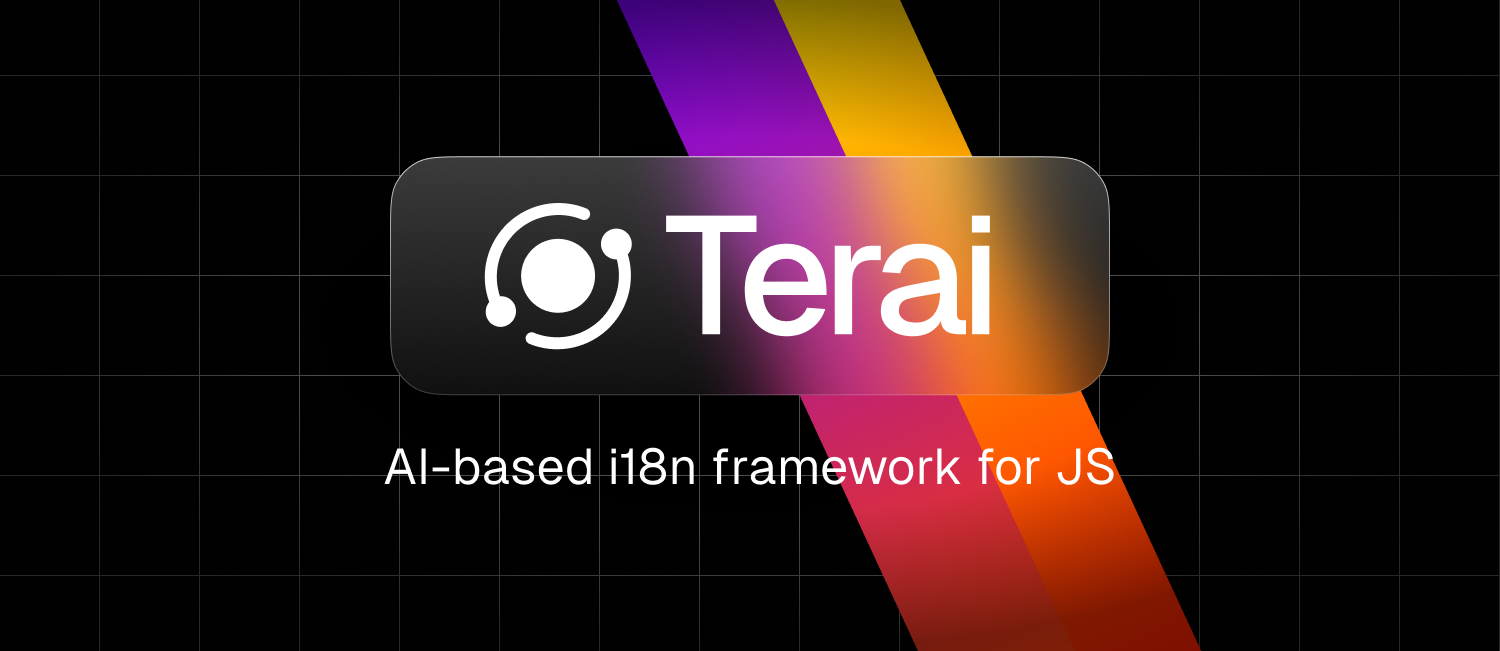
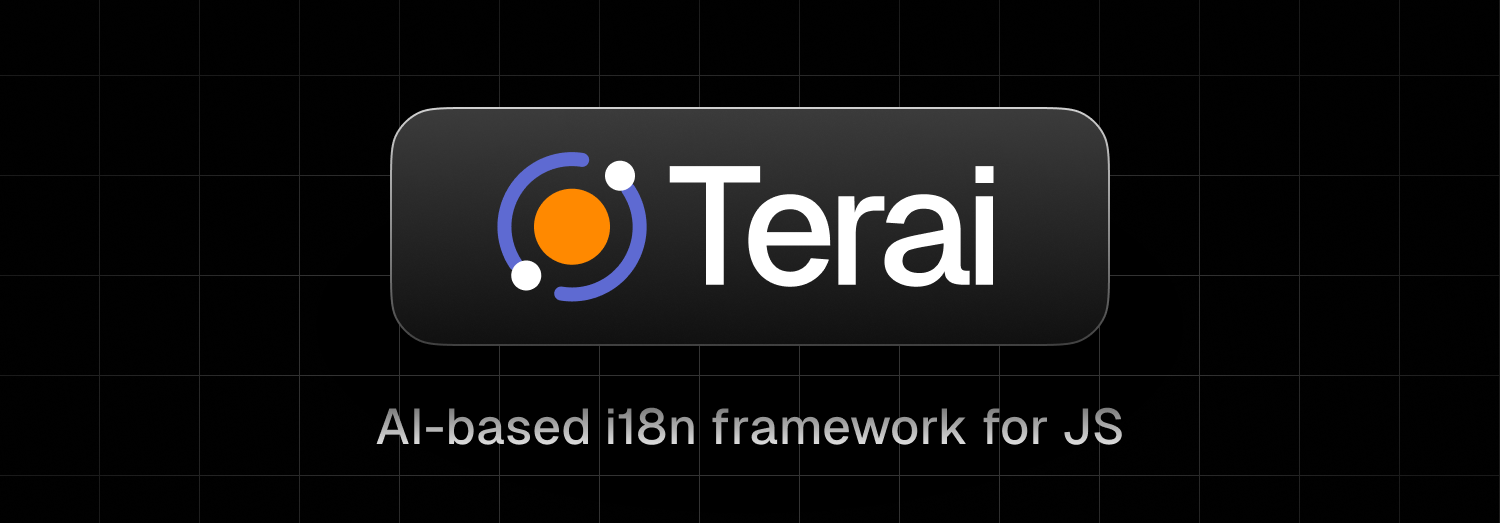
WIP Docs

Changed region(s): [[0.184, 0.0, 0.828, 1.0], [0.2453, 0.5507, 0.276, 0.5813]]

diff --git a/website/theme.config.tsx b/website/theme.config.tsx
@@ -4,7 +4,40 @@ import { ThemeConfig } from 'nextra/types'
 const config: ThemeConfig = {
   logo: (
     <div className='nx-flex nx-items-center'>
-      <Image alt='terai' src={'/terai/icon.png'} width={32} height={32} />
+      <svg
+        width='24'
+        height='24'
+        viewBox='0 0 162 162'
+        fill='none'
+        xmlns='http://www.w3.org/2000/svg'
+      >
+        <path
+          d='M70.2002 147.825C83.1788 149.958 96.4977 148.252 108.52 142.918C120.543 137.583 130.745 128.853 137.873 117.799C145.001 106.746 148.744 93.8502 148.642 80.6979C148.541 67.5456 144.599 54.7095 137.302 43.767'
+          stroke='#5E6AD2'
+          stroke-width='14'
+          stroke-linecap='round'
+          stroke-linejoin='round'
+        />
+        <path
+          d='M91.1253 14.175C78.1997 12.2012 64.9791 14.0239 53.0698 19.4218C41.1606 24.8196 31.0755 33.5602 24.04 44.5814C17.0044 55.6027 13.3213 68.4301 13.4382 81.505C13.5551 94.5798 17.467 107.339 24.6985 118.233'
+          stroke='#5E6AD2'
+          stroke-width='14'
+          stroke-linecap='round'
+          stroke-linejoin='round'
+        />
+        <path
+          d='M81 119C101.987 119 119 101.987 119 81C119 60.0132 101.987 43 81 43C60.0132 43 43 60.0132 43 81C43 101.987 60.0132 119 81 119Z'
+          fill='#FF8900'
+        />
+        <path
+          d='M129 45C137.284 45 144 38.2843 144 30C144 21.7157 137.284 15 129 15C120.716 15 114 21.7157 114 30C114 38.2843 120.716 45 129 45Z'
+          fill='currentColor'
+        />
+        <path
+          d='M35.25 144.75C43.5343 144.75 50.25 138.034 50.25 129.75C50.25 121.466 43.5343 114.75 35.25 114.75C26.9657 114.75 20.25 121.466 20.25 129.75C20.25 138.034 26.9657 144.75 35.25 144.75Z'
+          fill='currentColor'
+        />
+      </svg>
       <span className='nx-ml-2 nx-text-xl nx-font-bold nx-tracking-tight nx-text-slate-900 dark:nx-text-slate-100'>
         Terai
       </span>
@@ -17,7 +50,14 @@ const config: ThemeConfig = {
   toc: {
     backToTop: true
   },
-  primaryHue: 255,
+  primaryHue: {
+    light: 235,
+    dark: 40
+  },
+  primarySaturation: {
+    light: 70,
+    dark: 100
+  },
   footer: {
     text: (
       <span>

diff --git a/website/src/pages/global.css b/website/src/pages/global.css
@@ -1,6 +1,6 @@
 html,
 article.nextra-body-typesetting-article {
-  font-size: 14px !important;
+  font-size: 13px !important;
 }
 
 td,

diff --git a/README.md b/README.md
@@ -16,27 +16,27 @@
 </div>
 
 <div align="center">
-  <h5>
-    <a href="https://terai.dev">
+  <h4>
+    <a href="https://teraihq.github.io/terai">
       Website
     </a>
-    <span> • </span>
-    <a href="https://terai.dev/docs">
+    <span> | </span>
+    <a href="https://teraihq.github.io/terai/docs">
       Documentation
     </a>
-    <span> • </span>
+    <span> | </span>
     <a href="https://github.dev/terai/terai/issues">
       Issues
     </a>
-    <span> • </span>
-    <a href="https://terai.dev/docs/contributing">
+    <span> | </span>
+    <a href="https://teraihq.github.io/terai/docs/contributing">
       Contributing
     </a>
-    <span> • </span>
+    <span> | </span>
     <a href="https://github.dev/terai/terai/blob/master/CHANGELOG.md">
       Changelog
     </a>
-  </h5>
+  </h4>
 </div>
 
 > [!WARNING]  
@@ -52,7 +52,7 @@ Workflow can be broken down into 3 steps:
 - 2⃣ **Extract**: streamline your extraction process by automatically gathering all the messages within your project.
 - 3⃣ **Translate**: use your defined translator to get your localized messages.
 
-More documentation available at [https://terai.dev](https://terai.dev).
+More documentation available at [https://teraihq.github.io/terai](https://teraihq.github.io/terai).
 
 ## Features
 
@@ -80,11 +80,11 @@ More documentation available at [https://terai.dev](https://terai.dev).
 
 ## Getting Started
 
-Visit <a aria-label="terai learn" href="https://terai.dev/learn">https://terai.dev/learn</a> to get started with **Terai**.
+Visit <a aria-label="terai learn" href="https://teraihq.github.io/terai/learn">https://teraihq.github.io/terai/learn</a> to get started with **Terai**.
 
 ## Documentation
 
-Visit [https://terai.dev/docs](https://terai.dev/docs) to view the full documentation.
+Visit [https://teraihq.github.io/terai/docs](https://teraihq.github.io/terai/docs) to view the full documentation.
 
 ## Community
 
